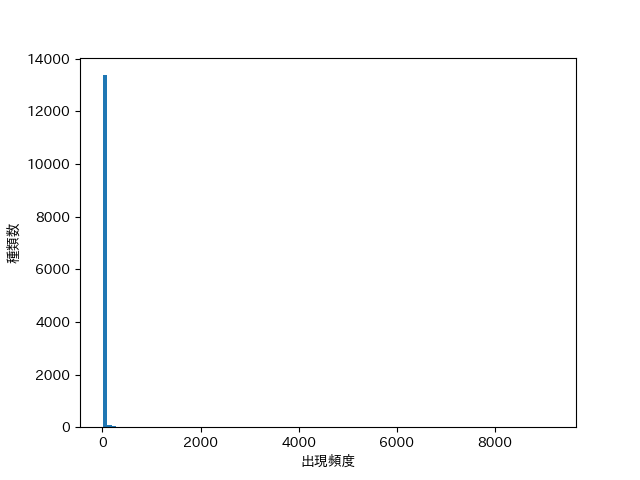
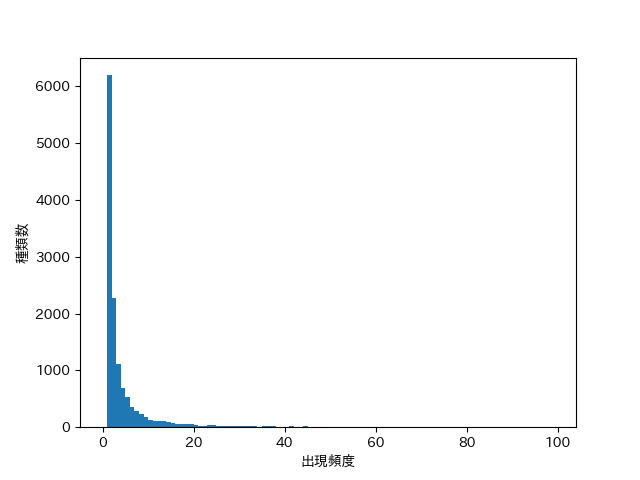
図の追加

diff --git a/assignments_folder/Chapter4/exer38.py b/assignments_folder/Chapter4/exer38.py
@@ -43,7 +43,7 @@ print(count_list)
 
 # 課題38
 fig, axis = plt.subplots()
-axis.hist(count_list, bins=100)
+axis.hist(count_list, range(100))
 plt.xlabel("出現頻度")
 plt.ylabel("種類数")
 plt.show()
